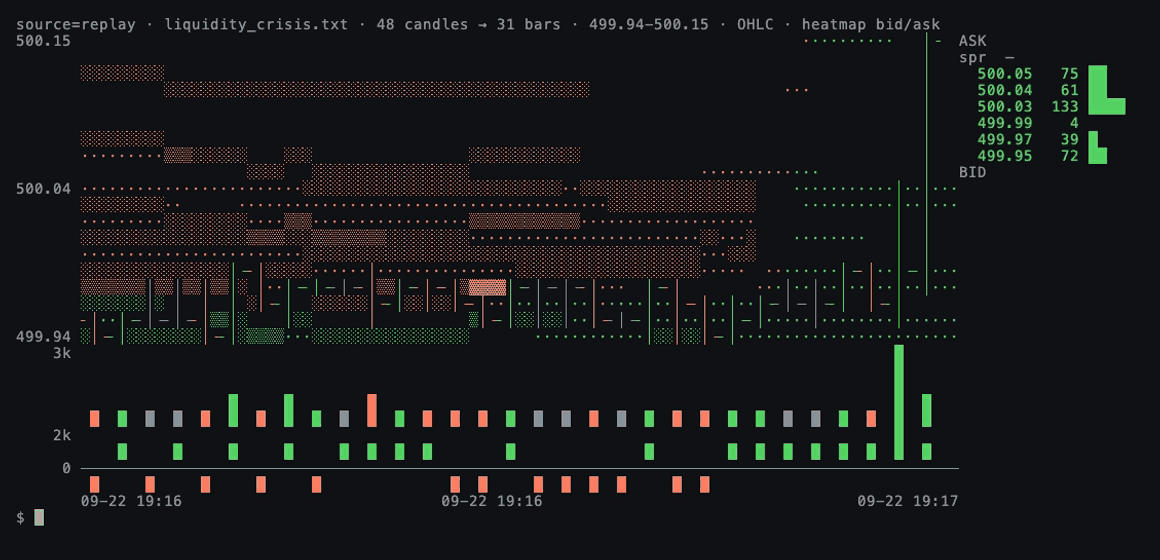
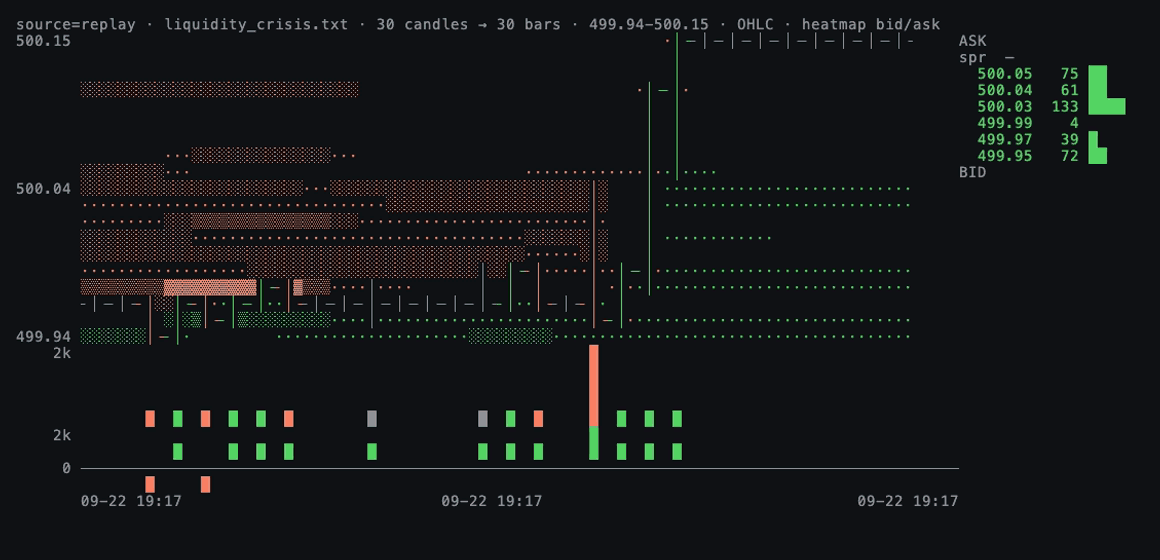
docs: re-record replay demos on the time-linear axis
Replays now use a 30-second window, so each bar is exactly one second and every
layer in a column describes the same second. Drops the README limitation about
the heatmap and candles not sharing a time axis.

diff --git a/README.md b/README.md
@@ -92,7 +92,7 @@ Recorded sessions replay through the same chart, frame by frame:
 
 ```bash
 scripts/play-recording.sh web/scenarios/large_buy_sweep.txt --from 112 --to 176 \
-  -- --interval-secs 1 --tick-size 0.01 --window 48 --heatmap
+  -- --interval-secs 1 --tick-size 0.01 --window 30 --heatmap
 ```
 
 <img src="docs/media/sweep.gif" width="100%"
@@ -104,11 +104,13 @@ participant buys 10,000 shares at once. The volume and delta panels spike on a
 single bar, almost all of it buyer-initiated (10,312 of 10,722 shares). The
 **heatmap** behind the bars, where red is resting asks and green is resting bids,
 shows the ask band being consumed and the book re-forming higher within seconds.
-The ladder recovers its depth; the price does not come back.
+The ladder recovers its depth; the price does not come back. Each bar is one
+second, and every layer in a column describes that same second. A second with no
+trades is a flat tick with no volume, not a gap.
 
 ```bash
 scripts/play-recording.sh web/scenarios/liquidity_crisis.txt --from 262 --to 326 \
-  -- --interval-secs 1 --tick-size 0.01 --window 48 --heatmap
+  -- --interval-secs 1 --tick-size 0.01 --window 30 --heatmap
 ```
 
 <img src="docs/media/crisis.gif" width="100%"
@@ -212,6 +214,11 @@ are a fixed 120×30.
 - **Exact price keys.** The book and heatmap key levels by integer tick
   (`round(price / tick_size)`), so repeated updates hit the same level and each
   side stays sorted. Prices remain `f64` at the API.
+- **A time-linear axis.** Every candle interval gets a bar: a quiet interval
+  becomes a flat, zero-volume candle, and each `Heartbeat` moves the clock forward
+  even when nothing trades. Heatmap columns, trade markers and annotations carry
+  timestamps and are drawn under the bar whose interval contains them, so every
+  layer of a column describes the same slice of time.
 - **Heartbeats set the heatmap cadence.** `MarketEvent::Heartbeat` records a
   heatmap column. The data source decides the sampling rate, and the book stays a
   faithful mirror of the feed.
@@ -279,11 +286,6 @@ This is a personal engineering project at version 0.1, not a published crate.
 The API is unstable.
 
 - **Text rendering only.** There is no Canvas or WebGPU backend.
-- **Heatmap and candles share the price axis, not the time axis.** The heatmap
-  draws one column per heartbeat, newest at the right edge. Candles exist only for
-  intervals that had trades, three columns each. Over a full window the spans
-  roughly line up, but individual columns do not correspond, and in sparse trading
-  they drift apart.
 - **Arrival-time bucketing.** The engine's fill messages carry no timestamp, so
   the live adapter stamps events on receipt. Live candles therefore depend on
   arrival timing. Replays are deterministic.
